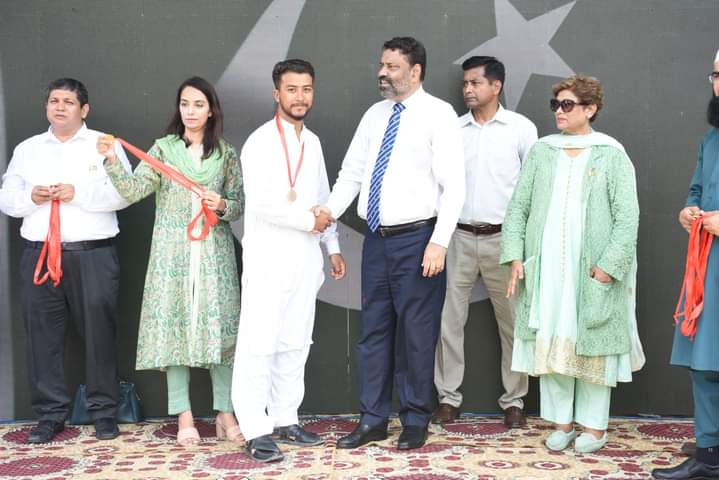
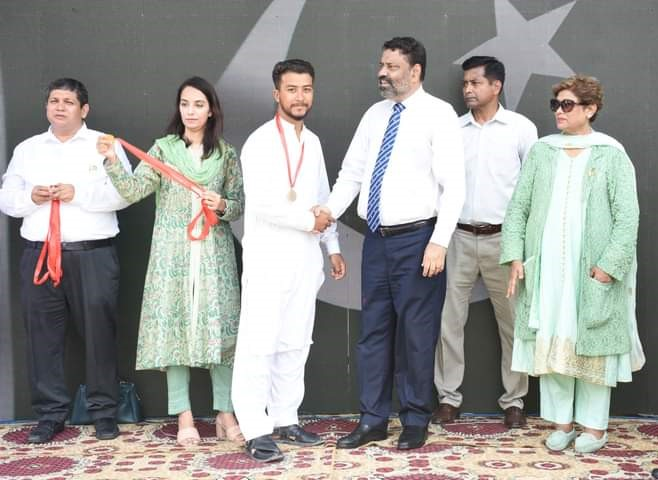
Add files via upload

diff --git a/index.html b/index.html
@@ -16,7 +16,8 @@
             margin: 0;
             padding: 0;
             box-sizing: border-box;
-            font-family: 'Poppins', sans-serif;
+            /*font-family: 'Poppins', sans-serif; */
+            font-family: 'Manrope', sans-serif;
         }
 
         html {
@@ -24,8 +25,12 @@
         }
 
         body {
-            background: #000;
-            color: #fff;
+           /* background: #000;
+            color: #fff; */
+             background: #0A1F3D;
+            color: #fff; 
+            
+                
         }
 
         body {
@@ -45,15 +50,15 @@
             position: fixed;
             top: 0;
             left: 0;
-            background: #0d0d0d;
+            background: #0f0f0fe8;
             z-index: 1000;
 
-            background: rgba(23, 22, 22, 0.6);
+            background: rgba(7, 121, 173, 0.815);
             /* transparent */
             backdrop-filter: blur(10px);
             /* blur effect */
             -webkit-backdrop-filter: blur(10px);
-            border-bottom: 1px solid rgba(255, 255, 255, 0.007);
+            border-bottom: 1px solid rgba(12, 12, 12, 0.062);
         }
 
         /* Logo */
@@ -223,7 +228,7 @@
 
         .about-section {
             padding: 100px 8%;
-            background: #111;
+            background: #095ea350;
             color: #fff;
         }
 
@@ -235,10 +240,10 @@
 
         /* LEFT 35% */
         .about-left {
-            width: 35%;
-            background: #1a1a1a;
+            width: 30%;
+            background: #23dbf32a;
             padding: 25px;
-            border: radius 10px;
+            border: radius 20px;
             px;
         }
 
@@ -265,14 +270,14 @@
 
         .summary-text {
             text-align: justify;
-            line-height: 1.5;
+            line-height: 1.7;
             font-size: 14px;
             letter-spacing: 0.3px;
-        }
+            }
 
-        /* RIGHT 65% */
+        /* RIGHT 70% */
         .about-right {
-            width: 65%;
+            width: 70%;
         }
 
         .about-right h1 {
@@ -303,7 +308,7 @@
 
         .education-section {
             padding: 100px 8%;
-            background: #000;
+            background: #0c83e650;
             color: #fff;
             text-align: center;
         }
@@ -331,7 +336,7 @@
 
         /* Card Style */
         .edu-card {
-            background: linear-gradient(145deg, #111, #1c1c1c);
+            background: linear-gradient(145deg, #23dbf32a, #23dbf32a);
             padding: 40px;
             border-radius: 10px;
             text-align: justify;
@@ -474,7 +479,7 @@
 
         .experience-section {
             padding: 100px 8%;
-            background: #000;
+            background: #4facf850;
             color: #fff;
             text-align: center;
         }
@@ -502,7 +507,7 @@
 
         /* Card Style */
         .exp-card {
-            background: #262626;
+            background: #23dbf32a;
             /*  background: linear-gradient(145deg, #111, #1c1c1c); */
             padding: 40px;
             border-radius: 10px;
@@ -711,7 +716,7 @@ background: #042da9e6;*/
         /* ============================= */
 
         .skills-section {
-            background: #000;
+            background: #439cf550;
             color: #fff;
             padding: 100px 8%;
         }
@@ -757,7 +762,7 @@ background: #042da9e6;*/
         .progress {
             width: 100%;
             height: 16px;
-            background: #5f5e5e;
+            background: #e2e3e450;
             border-radius: 4px;
             overflow: hidden;
         }
@@ -774,7 +779,7 @@ background: #042da9e6;*/
         /* ============================= */
 
         .skills-section {
-            background: #000;
+            background: #3b9dee59;
             color: #fff;
             padding: 110px 8%;
             font-family: 'Poppins', sans-serif;
@@ -866,7 +871,7 @@ background: #042da9e6;*/
         /* ============================= */
         .honor-section {
             padding: 100px 8%;
-            background: #000;
+            background: #56acf359;
             color: #fff;
             text-align: center;
         }
@@ -894,7 +899,7 @@ background: #042da9e6;*/
 
         /* Card Style */
         .honor-card {
-            background: linear-gradient(145deg, #282626, #494646);
+            background: linear-gradient(145deg, #23dbf32a, #23dbf32a);
             padding: 40px;
             border-radius: 10px;
             text-align: left;
@@ -995,7 +1000,7 @@ background: #042da9e6;*/
         /* ============================= */
 
         .contact-section {
-            background: #000;
+            background: #0A1F3D;
             color: #fff;
             padding: 120px 8%;
             text-align: center;
@@ -1506,7 +1511,7 @@ opacity:0.4;
         <!-- LEFT SIDE (30%) -->
         <div class="hero-left">
             <p>Hello!</p>
-            <h1>I'm <span>Muhammad Tariq</span></h1>
+            <h1>I'm <br><span>Muhammad Tariq</span></h1>
             <h3>Certified Mud Logger & <BR>Well Site Geologist</h3>
             <a href="Tariq_CV.pdf" target="_blank" class="btn btn-primary"> View CV</a>
             <a href="#experience-section" class="btn btn-outline">My Experience</a>
@@ -1537,27 +1542,15 @@ opacity:0.4;
                 <img src="tariq_pic.png" alt="Profile Image" class="about-img">
 
                 <div class="about-details">
-                    <p><strong>Name:</strong> Muhammad Tariq</p>
-                    <p><strong>Date of Birth:</strong> March 28, 2001</p>
-                    <p><strong>Role:</strong> Mud Logger & Geologist</p>
-                    <p><strong>Experience:</strong> 4+ Years</p>
-                    <p><strong>Specialty:</strong> Petroleum Geology</p>
-                    <p><strong>Location:</strong> Karachi, Pakistan</p>
+                    <p>Name:           <strong>Muhammad Tariq</strong></p>
+                    <p>Date of Birth:  <strong>March 28, 2001</strong></p>
+                    <p>Role:           <strong>Mud Logger & Geologist</strong></p>
+                    <p>Experience:     <strong>4+ Years</strong></p>
+                    <p>Specialty:      <strong>Petroleum Geology</strong></p>
+                    <p>Location:       <strong>Karachi, Pakistan</strong></p>
                 </div>
 
-                <div class="about-summary">
-                    <h3>Summary</h3>
-                    <p class="summary-text">
-                        Results-driven Mud Logger with 4+ years of comprehensive well site experience and advanced
-                        geological qualifications.
-                        Expertise in real-time drilling surveillance, formation evaluation, and hydrocarbon
-                        detection.
-                        <br>
-                        Proven ability to enhance drilling efficiency through meticulous data analysis, proactive hazard
-                        identification, and precise geological reporting.
-                    </p>
-                </div>
-
+                
             </div>
 
             <!-- RIGHT SIDE (65%) -->
@@ -1578,6 +1571,18 @@ opacity:0.4;
                     Barrel Award (AAPG) 2022, I am committed to maintaining the highest standards of safety and
                     technical accuracy in dynamic exploration environments.
                 </p>
+                    <div class="about-summary">
+                <h3>Summary</h3>
+                    <p class="summary-text">
+                        Results-driven Mud Logger with 4+ years of comprehensive well site experience and advanced
+                        geological qualifications.
+                        Expertise in real-time drilling surveillance, formation evaluation, and hydrocarbon
+                        detection.
+                        <br>
+                        Proven ability to enhance drilling efficiency through meticulous data analysis, proactive hazard
+                        identification, and precise geological reporting.
+                    </p>
+                    </div>
             </div>
 
         </div>
